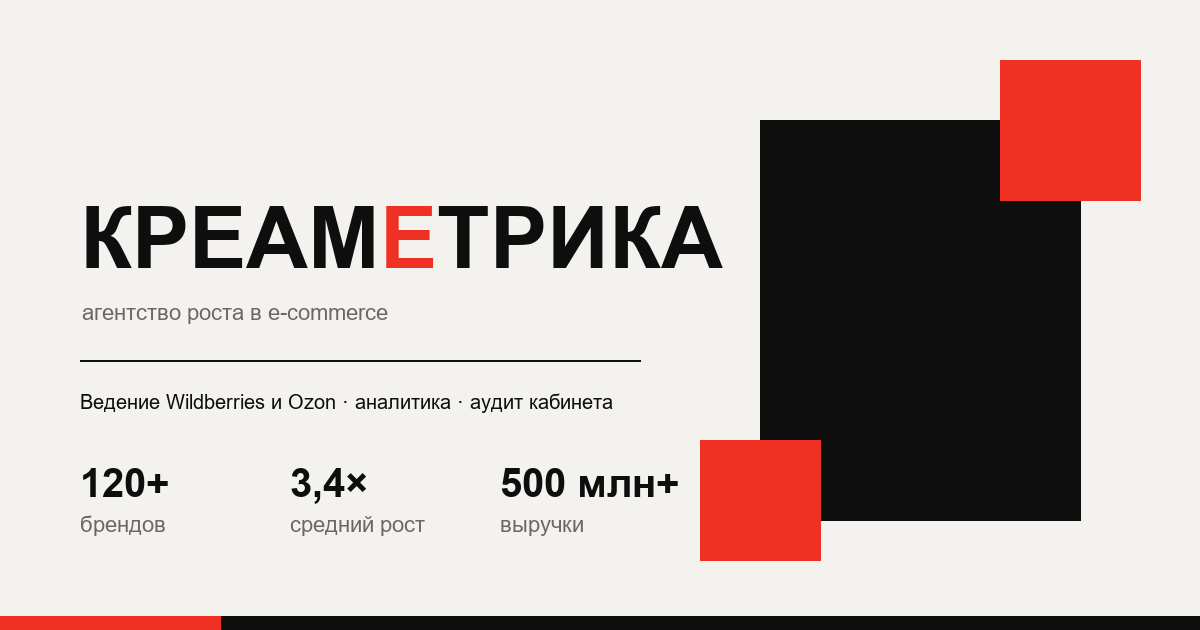
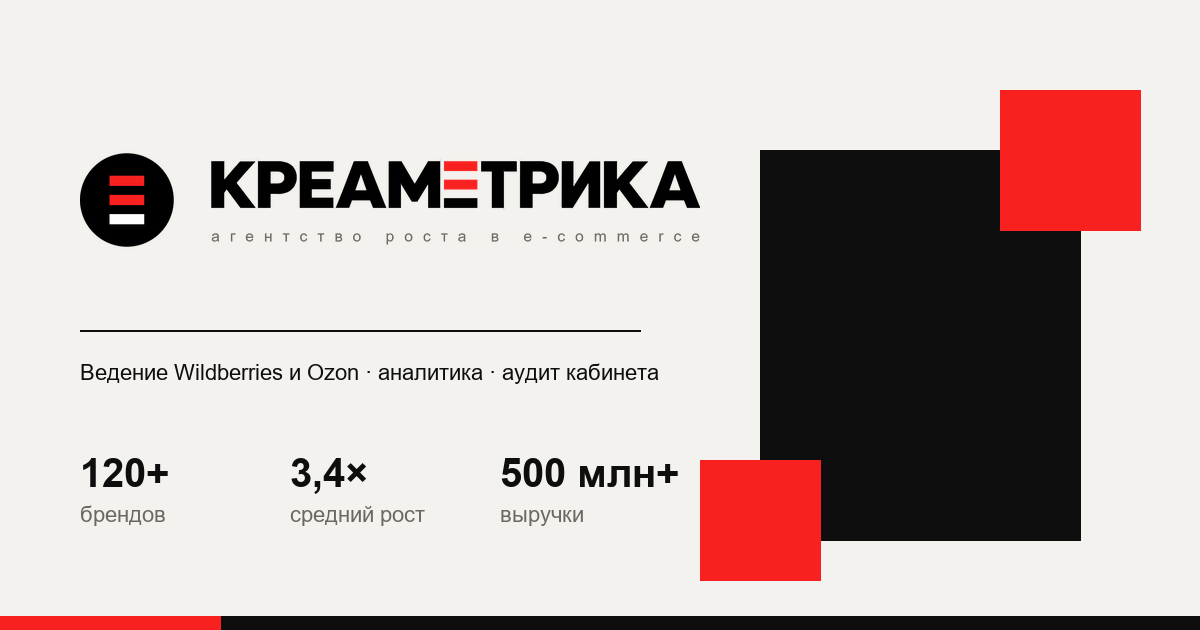
Настоящий векторный логотип и полный набор иконок
Разобран набор из папки «Векторизация логотипа и фавикон»:

- в шапке и подвале вместо набранного шрифтом названия — готовый лакап
  (знак + «КРЕАМЕТРИКА» с фирменной полосатой «Е»)
- favicon.svg, favicon.ico, apple-touch-icon и иконки 192/512 в корне сайта,
  добавлен site.webmanifest
- в assets/brand лежат лакап, логотип, знак и бейдж, включая белые версии
  для тёмного фона
- og-картинка пересобрана на настоящем лакапе
- удалены самодельные logo-mark.svg и favicon, которыми знак имитировался

Две содержательные правки:

- акцентный цвет приведён к #F8211F из векторов бренда (в прототипе из
  дизайн-тула был #EF3124) — иначе плашки и кнопки не совпадали бы со знаком
- из SVG вычищены метаданные C2PA: у иконок это 8 КБ метаданных на 0.5 КБ
  графики. Сама графика не изменена, оригиналы лежат в исходной папке

diff --git a/assets/css/style.css b/assets/css/style.css
@@ -12,8 +12,8 @@
   --ink-line: #35322E;
   --paper: #F4F2EE;
   --white: #FFFFFF;
-  --accent: #EF3124;
-  --accent-dark: #D92B1C;
+  --accent: #F8211F;      /* из векторов бренда, brand/logo */
+  --accent-dark: #D01A18;
   --muted: #6B6762;
   --dim: #8C8880;
   --dim-2: #B5B0AA;
@@ -28,7 +28,7 @@
   --wrap: 1280px;
   --gutter: 28px;
   --section-gap: 96px;
-  --header-h: 74px;
+  --header-h: 76px;
 
   /* Прочее */
   --radius: 4px;
@@ -192,22 +192,26 @@ button, input, textarea, select { font: inherit; color: inherit; }
 .band a:hover { color: var(--accent); }
 
 /* ------------------------------------------------------------- 4. Логотип */
-.logo { display: inline-flex; align-items: center; gap: 12px; line-height: 1; padding: 6px 0; }
-.logo__mark { width: 34px; height: 34px; flex: none; }
-.logo__name {
-  font-family: var(--font-display);
-  font-weight: 800;
-  font-size: 22px;
-  letter-spacing: -.02em;
+.logo {
+  display: inline-flex;
+  flex-direction: column;
+  align-items: flex-start;
+  gap: 4px;
+  line-height: 1;
+  padding: 4px 0;
 }
+/* Высота подобрана так, чтобы липкая шапка осталась прежней высоты:
+   лакап со знаком выше, чем набранное шрифтом название. Ширина — от
+   пропорций файла (1322.6 x 200). */
+.logo__lockup { height: 30px; width: auto; }
+.logo__lockup--footer { height: 40px; }
 .logo__tag {
   font-family: var(--font-mono);
   font-size: 9px;
   letter-spacing: .18em;
   color: var(--muted);
-  margin-top: 3px;
 }
-.logo:hover { color: inherit; }
+.logo:hover { color: inherit; opacity: .82; transition: opacity var(--t); }
 
 /* -------------------------------------------------------------- 5. Кнопки */
 .btn {
@@ -889,7 +893,7 @@ button, input, textarea, select { font: inherit; color: inherit; }
   display: none;
   border-left: 3px solid var(--accent);
   padding: 16px 20px;
-  background: rgba(239, 49, 36, .1);
+  background: rgba(248, 33, 31, .1);
   font-size: 14px;
   line-height: 1.5;
 }
@@ -1261,9 +1265,9 @@ button, input, textarea, select { font: inherit; color: inherit; }
 
   /* Шапка: логотип не должен спорить с бургером */
   .header__inner { gap: 16px; }
-  .logo { gap: 10px; }
-  .logo__mark { width: 30px; height: 30px; }
-  .logo__name { font-size: 19px; }
+  .logo { gap: 4px; }
+  .logo__lockup { height: 26px; }
+  .logo__lockup--footer { height: 34px; }
   .logo__tag { font-size: 8px; letter-spacing: .14em; }
 
   /* Первый экран */
@@ -1349,7 +1353,7 @@ button, input, textarea, select { font: inherit; color: inherit; }
 @media (max-width: 380px) {
   :root { --gutter: 16px; }
   .logo__tag { display: none; }
-  .logo__name { font-size: 18px; }
+  .logo__lockup { height: 26px; }
   .hero__stats { grid-template-columns: repeat(2, minmax(0, 1fr)); gap: 16px; }
   .stat__value { font-size: 22px; }
   .team { grid-template-columns: 1fr; }

diff --git a/index.html b/index.html
@@ -17,8 +17,10 @@
 <meta property="og:image" content="https://nbalakk.github.io/kreametrika-site/assets/img/og.png">
 <meta name="twitter:card" content="summary_large_image">
 
-<link rel="icon" href="assets/img/favicon.svg" type="image/svg+xml">
-<link rel="apple-touch-icon" href="assets/img/apple-touch-icon.png">
+<link rel="icon" href="favicon.ico" sizes="48x48">
+<link rel="icon" href="favicon.svg" type="image/svg+xml">
+<link rel="apple-touch-icon" href="apple-touch-icon.png">
+<link rel="manifest" href="site.webmanifest">
 
 <link rel="preconnect" href="https://fonts.googleapis.com">
 <link rel="preconnect" href="https://fonts.gstatic.com" crossorigin>
@@ -34,7 +36,7 @@
   "name": "Креаметрика",
   "description": "Агентство роста в e-commerce: ведение Wildberries и Ozon, аналитика, аудит кабинета.",
   "url": "https://nbalakk.github.io/kreametrika-site/",
-  "logo": "https://nbalakk.github.io/kreametrika-site/assets/img/logo-mark.svg",
+  "logo": "https://nbalakk.github.io/kreametrika-site/assets/brand/badge.svg",
   "email": "hello@kreametrika.com",
   "telephone": "+7 495 000-00-00",
   "address": {
@@ -54,11 +56,8 @@
 <header class="header">
   <div class="wrap header__inner">
     <a class="logo" href="index.html" aria-label="Креаметрика — на главную">
-      <img class="logo__mark" src="assets/img/logo-mark.svg" alt="" width="34" height="34">
-      <span>
-        <span class="logo__name">КРЕАМ<span class="accent">Е</span>ТРИКА</span>
-        <span class="logo__tag">агентство роста в e-commerce</span>
-      </span>
+      <img class="logo__lockup" src="assets/brand/lockup.svg" alt="Креаметрика" width="238" height="36">
+      <span class="logo__tag">агентство роста в e-commerce</span>
     </a>
 
     <nav class="nav" aria-label="Основная навигация">
@@ -570,7 +569,7 @@
 <footer class="footer">
   <div class="wrap footer__grid">
     <div>
-      <div class="logo__name">КРЕАМ<span class="accent">Е</span>ТРИКА</div>
+      <img class="logo__lockup logo__lockup--footer" src="assets/brand/lockup.svg" alt="Креаметрика" width="265" height="40">
       <div class="logo__tag">агентство роста в e-commerce</div>
       <div class="footer__bars" aria-hidden="true"><span></span><span></span><span></span></div>
     </div>

diff --git a/privacy.html b/privacy.html
@@ -7,8 +7,10 @@
 <meta name="description" content="Как агентство Креаметрика обрабатывает персональные данные пользователей сайта.">
 <meta name="robots" content="noindex, follow">
 <meta name="theme-color" content="#F4F2EE">
-<link rel="icon" href="assets/img/favicon.svg" type="image/svg+xml">
-<link rel="apple-touch-icon" href="assets/img/apple-touch-icon.png">
+<link rel="icon" href="favicon.ico" sizes="48x48">
+<link rel="icon" href="favicon.svg" type="image/svg+xml">
+<link rel="apple-touch-icon" href="apple-touch-icon.png">
+<link rel="manifest" href="site.webmanifest">
 <link rel="preconnect" href="https://fonts.googleapis.com">
 <link rel="preconnect" href="https://fonts.gstatic.com" crossorigin>
 <link href="https://fonts.googleapis.com/css2?family=Manrope:wght@400;500;700;800&family=Golos+Text:wght@400;500;600&family=JetBrains+Mono:wght@400;500&display=swap" rel="stylesheet">
@@ -24,11 +26,8 @@
 <header class="header">
   <div class="wrap header__inner">
     <a class="logo" href="index.html" aria-label="Креаметрика — на главную">
-      <img class="logo__mark" src="assets/img/logo-mark.svg" alt="" width="34" height="34">
-      <span>
-        <span class="logo__name">КРЕАМ<span class="accent">Е</span>ТРИКА</span>
-        <span class="logo__tag">агентство роста в e-commerce</span>
-      </span>
+      <img class="logo__lockup" src="assets/brand/lockup.svg" alt="Креаметрика" width="238" height="36">
+      <span class="logo__tag">агентство роста в e-commerce</span>
     </a>
 
     <nav class="nav" aria-label="Основная навигация">
@@ -92,7 +91,7 @@
 <footer class="footer">
   <div class="wrap footer__grid">
     <div>
-      <div class="logo__name">КРЕАМ<span class="accent">Е</span>ТРИКА</div>
+      <img class="logo__lockup logo__lockup--footer" src="assets/brand/lockup.svg" alt="Креаметрика" width="265" height="40">
       <div class="logo__tag">агентство роста в e-commerce</div>
       <div class="footer__bars" aria-hidden="true"><span></span><span></span><span></span></div>
     </div>

diff --git a/404.html b/404.html
@@ -7,8 +7,10 @@
 <meta name="description" content="Страница не найдена.">
 <meta name="robots" content="noindex, nofollow">
 <meta name="theme-color" content="#F4F2EE">
-<link rel="icon" href="assets/img/favicon.svg" type="image/svg+xml">
-<link rel="apple-touch-icon" href="assets/img/apple-touch-icon.png">
+<link rel="icon" href="favicon.ico" sizes="48x48">
+<link rel="icon" href="favicon.svg" type="image/svg+xml">
+<link rel="apple-touch-icon" href="apple-touch-icon.png">
+<link rel="manifest" href="site.webmanifest">
 <link rel="preconnect" href="https://fonts.googleapis.com">
 <link rel="preconnect" href="https://fonts.gstatic.com" crossorigin>
 <link href="https://fonts.googleapis.com/css2?family=Manrope:wght@400;500;700;800&family=Golos+Text:wght@400;500;600&family=JetBrains+Mono:wght@400;500&display=swap" rel="stylesheet">
@@ -24,11 +26,8 @@
 <header class="header">
   <div class="wrap header__inner">
     <a class="logo" href="index.html" aria-label="Креаметрика — на главную">
-      <img class="logo__mark" src="assets/img/logo-mark.svg" alt="" width="34" height="34">
-      <span>
-        <span class="logo__name">КРЕАМ<span class="accent">Е</span>ТРИКА</span>
-        <span class="logo__tag">агентство роста в e-commerce</span>
-      </span>
+      <img class="logo__lockup" src="assets/brand/lockup.svg" alt="Креаметрика" width="238" height="36">
+      <span class="logo__tag">агентство роста в e-commerce</span>
     </a>
 
     <nav class="nav" aria-label="Основная навигация">
@@ -73,7 +72,7 @@
 <footer class="footer">
   <div class="wrap footer__grid">
     <div>
-      <div class="logo__name">КРЕАМ<span class="accent">Е</span>ТРИКА</div>
+      <img class="logo__lockup logo__lockup--footer" src="assets/brand/lockup.svg" alt="Креаметрика" width="265" height="40">
       <div class="logo__tag">агентство роста в e-commerce</div>
       <div class="footer__bars" aria-hidden="true"><span></span><span></span><span></span></div>
     </div>

diff --git a/case-cosmetics.html b/case-cosmetics.html
@@ -17,8 +17,10 @@
 <meta property="og:image" content="https://nbalakk.github.io/kreametrika-site/assets/img/og.png">
 <meta name="twitter:card" content="summary_large_image">
 
-<link rel="icon" href="assets/img/favicon.svg" type="image/svg+xml">
-<link rel="apple-touch-icon" href="assets/img/apple-touch-icon.png">
+<link rel="icon" href="favicon.ico" sizes="48x48">
+<link rel="icon" href="favicon.svg" type="image/svg+xml">
+<link rel="apple-touch-icon" href="apple-touch-icon.png">
+<link rel="manifest" href="site.webmanifest">
 
 <link rel="preconnect" href="https://fonts.googleapis.com">
 <link rel="preconnect" href="https://fonts.gstatic.com" crossorigin>
@@ -47,11 +49,8 @@
 <header class="header">
   <div class="wrap header__inner">
     <a class="logo" href="index.html" aria-label="Креаметрика — на главную">
-      <img class="logo__mark" src="assets/img/logo-mark.svg" alt="" width="34" height="34">
-      <span>
-        <span class="logo__name">КРЕАМ<span class="accent">Е</span>ТРИКА</span>
-        <span class="logo__tag">агентство роста в e-commerce</span>
-      </span>
+      <img class="logo__lockup" src="assets/brand/lockup.svg" alt="Креаметрика" width="238" height="36">
+      <span class="logo__tag">агентство роста в e-commerce</span>
     </a>
 
     <nav class="nav" aria-label="Основная навигация">
@@ -247,7 +246,7 @@
 <footer class="footer">
   <div class="wrap footer__grid">
     <div>
-      <div class="logo__name">КРЕАМ<span class="accent">Е</span>ТРИКА</div>
+      <img class="logo__lockup logo__lockup--footer" src="assets/brand/lockup.svg" alt="Креаметрика" width="265" height="40">
       <div class="logo__tag">агентство роста в e-commerce</div>
       <div class="footer__bars" aria-hidden="true"><span></span><span></span><span></span></div>
     </div>

diff --git a/cases.html b/cases.html
@@ -17,8 +17,10 @@
 <meta property="og:image" content="https://nbalakk.github.io/kreametrika-site/assets/img/og.png">
 <meta name="twitter:card" content="summary_large_image">
 
-<link rel="icon" href="assets/img/favicon.svg" type="image/svg+xml">
-<link rel="apple-touch-icon" href="assets/img/apple-touch-icon.png">
+<link rel="icon" href="favicon.ico" sizes="48x48">
+<link rel="icon" href="favicon.svg" type="image/svg+xml">
+<link rel="apple-touch-icon" href="apple-touch-icon.png">
+<link rel="manifest" href="site.webmanifest">
 
 <link rel="preconnect" href="https://fonts.googleapis.com">
 <link rel="preconnect" href="https://fonts.gstatic.com" crossorigin>
@@ -35,11 +37,8 @@
 <header class="header">
   <div class="wrap header__inner">
     <a class="logo" href="index.html" aria-label="Креаметрика — на главную">
-      <img class="logo__mark" src="assets/img/logo-mark.svg" alt="" width="34" height="34">
-      <span>
-        <span class="logo__name">КРЕАМ<span class="accent">Е</span>ТРИКА</span>
-        <span class="logo__tag">агентство роста в e-commerce</span>
-      </span>
+      <img class="logo__lockup" src="assets/brand/lockup.svg" alt="Креаметрика" width="238" height="36">
+      <span class="logo__tag">агентство роста в e-commerce</span>
     </a>
 
     <nav class="nav" aria-label="Основная навигация">
@@ -222,7 +221,7 @@
 <footer class="footer">
   <div class="wrap footer__grid">
     <div>
-      <div class="logo__name">КРЕАМ<span class="accent">Е</span>ТРИКА</div>
+      <img class="logo__lockup logo__lockup--footer" src="assets/brand/lockup.svg" alt="Креаметрика" width="265" height="40">
       <div class="logo__tag">агентство роста в e-commerce</div>
       <div class="footer__bars" aria-hidden="true"><span></span><span></span><span></span></div>
     </div>

diff --git a/contacts.html b/contacts.html
@@ -17,8 +17,10 @@
 <meta property="og:image" content="https://nbalakk.github.io/kreametrika-site/assets/img/og.png">
 <meta name="twitter:card" content="summary_large_image">
 
-<link rel="icon" href="assets/img/favicon.svg" type="image/svg+xml">
-<link rel="apple-touch-icon" href="assets/img/apple-touch-icon.png">
+<link rel="icon" href="favicon.ico" sizes="48x48">
+<link rel="icon" href="favicon.svg" type="image/svg+xml">
+<link rel="apple-touch-icon" href="apple-touch-icon.png">
+<link rel="manifest" href="site.webmanifest">
 
 <link rel="preconnect" href="https://fonts.googleapis.com">
 <link rel="preconnect" href="https://fonts.gstatic.com" crossorigin>
@@ -35,11 +37,8 @@
 <header class="header">
   <div class="wrap header__inner">
     <a class="logo" href="index.html" aria-label="Креаметрика — на главную">
-      <img class="logo__mark" src="assets/img/logo-mark.svg" alt="" width="34" height="34">
-      <span>
-        <span class="logo__name">КРЕАМ<span class="accent">Е</span>ТРИКА</span>
-        <span class="logo__tag">агентство роста в e-commerce</span>
-      </span>
+      <img class="logo__lockup" src="assets/brand/lockup.svg" alt="Креаметрика" width="238" height="36">
+      <span class="logo__tag">агентство роста в e-commerce</span>
     </a>
 
     <nav class="nav" aria-label="Основная навигация">
@@ -159,7 +158,7 @@
 <footer class="footer">
   <div class="wrap footer__grid">
     <div>
-      <div class="logo__name">КРЕАМ<span class="accent">Е</span>ТРИКА</div>
+      <img class="logo__lockup logo__lockup--footer" src="assets/brand/lockup.svg" alt="Креаметрика" width="265" height="40">
       <div class="logo__tag">агентство роста в e-commerce</div>
       <div class="footer__bars" aria-hidden="true"><span></span><span></span><span></span></div>
     </div>

diff --git a/README.md b/README.md
@@ -15,11 +15,17 @@ site/
 ├── privacy.html            политика обработки персональных данных
 ├── 404.html                страница ошибки
 ├── robots.txt / sitemap.xml
+├── favicon.ico / favicon.svg / apple-touch-icon.png / icon-192.png / icon-512.png
+├── site.webmanifest
 └── assets/
     ├── css/style.css       вся дизайн-система: токены → компоненты → секции → адаптив
     ├── js/main.js          меню, аккордеон, фильтр, валидация, анимации
-    └── img/                плейсхолдеры изображений, логотип, favicon, og-картинка
+    ├── brand/              логотип, лакап и знак из векторного набора
+    └── img/                плейсхолдеры изображений и og-картинка
 ```
+
+Иконки лежат в корне намеренно: браузеры, поисковики и мессенджеры ищут
+`/favicon.ico` именно там, без ссылки в разметке.
 
 ## Как запустить локально
 
@@ -35,7 +41,7 @@ python -m http.server 8000
 ## Что перенесено из макета и что добавлено
 
 **Из макета один в один:** вся структура и тексты, чёрно-красная система
-(`--ink #0E0E0E`, `--paper #F4F2EE`, `--accent #EF3124`), шрифтовая пара
+(`--ink #0E0E0E`, `--paper #F4F2EE`, `--accent #F8211F`), шрифтовая пара
 Manrope + Golos Text + JetBrains Mono, бегущая строка, фирменные красные плашки
 на углах медиа-блоков.
 
@@ -55,9 +61,41 @@ Manrope + Golos Text + JetBrains Mono, бегущая строка, фирмен
 - доступность: skip-link, видимый фокус, aria-атрибуты, семантические заголовки;
 - SEO: `title`/`description` на каждой странице, Open Graph, canonical,
   микроразметка Organization и BreadcrumbList, `robots.txt`, `sitemap.xml`;
-- логотип-знак, favicon и og-картинка по брендборду;
+- полный набор иконок и og-картинка на основе векторного логотипа;
 - страницы 404 и политики конфиденциальности;
 - стили для печати.
+
+## Фирменные ассеты
+
+Источник — векторный набор из папки `Векторизация логотипа и фавикон/brand`.
+На сайт взято нужное, остальное (PNG-рендеры, mono-версии, полный набор
+размеров favicon) осталось в исходной папке.
+
+| Файл на сайте | Что это | Откуда |
+|---|---|---|
+| `assets/brand/lockup.svg` | знак + «КРЕАМЕТРИКА», шапка и подвал | `lockup/krea-lockup-no-descriptor.svg` |
+| `assets/brand/lockup-white.svg` | то же для тёмного фона | `…-no-descriptor-white.svg` |
+| `assets/brand/lockup-full.svg` | лакап с дескриптором | `lockup/krea-lockup.svg` |
+| `assets/brand/logo.svg` / `-white` | только слово, без знака | `logo/krea-logo.svg` |
+| `assets/brand/mark.svg` / `-white` | знак из трёх полос | `mark/krea-mark.svg` |
+| `assets/brand/badge.svg` / `-white` | знак в круге | `mark/krea-badge.svg` |
+| `favicon.svg`, `favicon.ico`, `apple-touch-icon.png`, `icon-192/512.png` | иконки | `favicon/` |
+
+**Два момента, которые стоит знать.**
+
+1. В исходных SVG лежал блок метаданных C2PA (сведения о происхождении файла) —
+   от 8 до 18 КБ на файл. У иконок это 8 КБ метаданных на 0.5 КБ графики, то есть
+   94% веса. Для веб-версий метаданные вычищены, сама графика не изменена
+   ни на пиксель; файлы с метаданными лежат нетронутыми в исходной папке.
+
+2. Фирменный красный в векторах — **#F8211F**, а в прототипе из дизайн-тула
+   был #EF3124. Сайт приведён к цвету из логотипа, иначе плашки и кнопки
+   отличались бы от знака. Если нужно вернуть прежний оттенок — это одна
+   строка `--accent` в начале `style.css`.
+
+Дескриптор «агентство роста в e-commerce» в шапке и подвале набран текстом, а не
+взят из `lockup-full.svg`: в готовом лакапе он занимает 14 единиц из 214, и при
+высоте логотипа 36px превратился бы в нечитаемые 2–3 пикселя.
 
 ## Движение
 
@@ -119,7 +157,8 @@ Manrope + Golos Text + JetBrains Mono, бегущая строка, фирмен
 
 ## Что нужно сделать перед публикацией
 
-1. **Заменить изображения.** В `assets/img/` лежат фирменные SVG-заглушки. Меняются
+1. **Заменить изображения.** Логотип и иконки уже настоящие. В `assets/img/`
+   остаются фирменные SVG-заглушки под фотографии. Меняются
    заменой файла с тем же именем — размеры и кадрирование подставятся сами
    (`object-fit: cover`). Рекомендуемые размеры указаны прямо на заглушке.
    Фотографии по брендбуку — чёрно-белые; обесцвечивание уже применено в CSS
